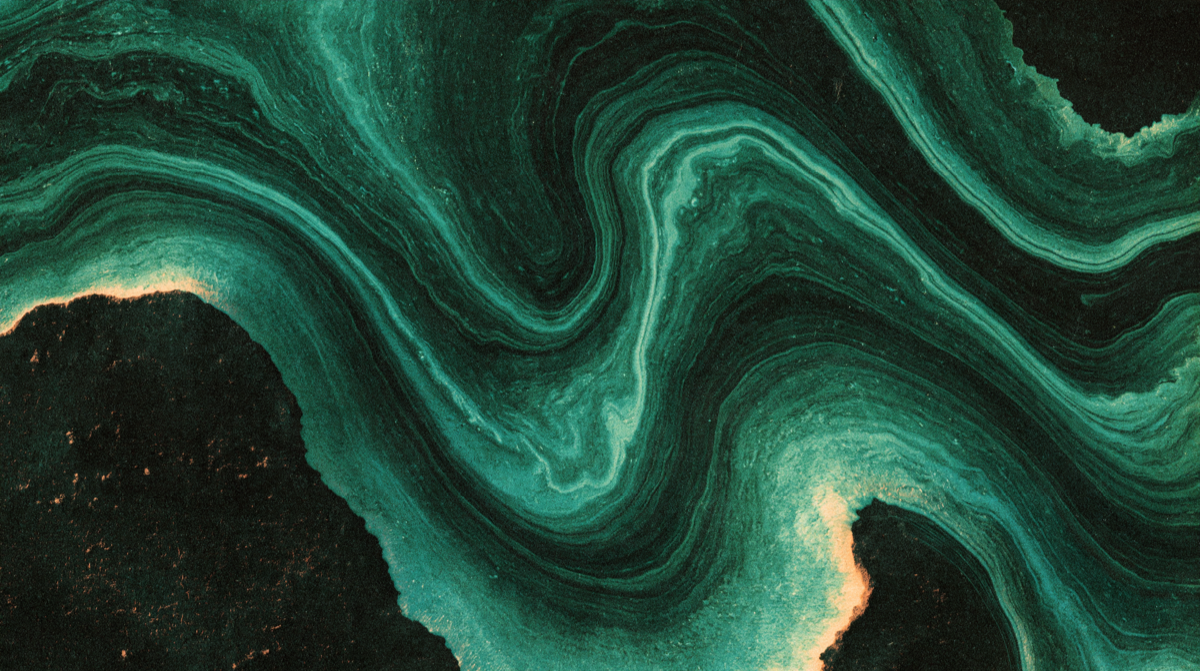
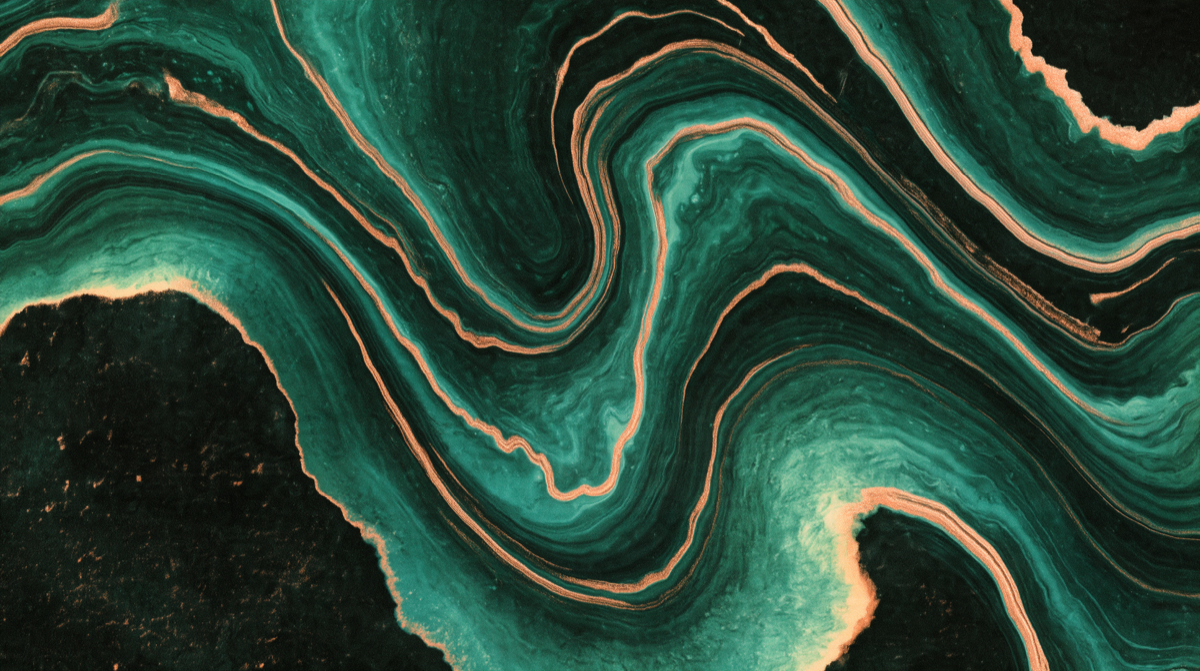
Update both demos for azure, linked rows and larger captions
Swiss Minimal's demo, its switcher, tests and the pigments post use the accent's new name; a saved choice of the old name still shows azure. The row examples on both Components pages have linked titles, so their hover fill is a real one. Verdigris's demo no longer passes an accent to its layout, and its copper-green post has a new picture. Both demos get Features entries.

diff --git a/demo/src/data/features.ts b/demo/src/data/features.ts
@@ -7,6 +7,20 @@ import type { Feature } from '@agentic-design-kits/swiss-minimal/types';
  */
 export const features: Feature[] = [
   {
+    date: '2026-11-15',
+    title: 'The verdigris accent is now azure',
+    body: 'The cool accent has a new name and the same colors. It read as blue more than green, and it shared its name with the Verdigris kit.',
+    details: [
+      'Sites on the kit: change `verdigris` to `azure` wherever the accent is set (`<html data-accent="azure">`, or `accent="azure"` on `BaseLayout`). The old name no longer works.',
+    ],
+  },
+  {
+    date: '2026-11-15',
+    title: 'Larger captions, and rows that fill only when they lead somewhere',
+    body: 'Captions under pictures are now 18px, up from 14px. A list row fills under the pointer only when it holds a link or a button, so a row of plain text no longer looks like something to click.',
+    details: ['The row examples on Components now have linked titles.'],
+  },
+  {
     date: '2026-11-14',
     title: 'Steps for your agent, in the package',
     body: 'The package now carries `USING.md`: the steps for starting a new site with the kit, and for restyling an existing one. Your agent finds it in `node_modules/@agentic-design-kits/swiss-minimal/`, beside the rules, with no trip to GitHub.',

diff --git a/demo/tests/accent-switcher.spec.ts b/demo/tests/accent-switcher.spec.ts
@@ -15,9 +15,9 @@ test('the gear switches the accent and remembers it', async ({ page }) => {
   // Focus goes to the chosen option.
   await expect(page.getByRole('button', { name: 'Vermilion', pressed: true })).toBeFocused();
 
-  await page.getByRole('button', { name: 'Verdigris' }).click();
-  await expect(html).toHaveAttribute('data-accent', 'verdigris');
-  await expect(page.getByRole('button', { name: 'Verdigris', pressed: true })).toBeVisible();
+  await page.getByRole('button', { name: 'Azure' }).click();
+  await expect(html).toHaveAttribute('data-accent', 'azure');
+  await expect(page.getByRole('button', { name: 'Azure', pressed: true })).toBeVisible();
 
   // Escape closes it and gives focus back to the gear.
   await page.keyboard.press('Escape');
@@ -26,7 +26,7 @@ test('the gear switches the accent and remembers it', async ({ page }) => {
 
   // Remembered on another page, applied before the page's own scripts run.
   await page.goto('/work');
-  await expect(html).toHaveAttribute('data-accent', 'verdigris');
+  await expect(html).toHaveAttribute('data-accent', 'azure');
 
   // Back to vermilion, and remembered too.
   await gear.click();

diff --git a/verdigris/demo/src/data/features.ts b/verdigris/demo/src/data/features.ts
@@ -7,6 +7,15 @@ import type { Feature } from '@agentic-design-kits/verdigris/types';
  */
 export const features: Feature[] = [
   {
+    date: '2026-11-15',
+    title: 'Larger captions, and rows that fill only when they lead somewhere',
+    body: 'Captions under pictures are now 22px, up from 18px. A list row fills under the pointer only when it holds a link or a button, so a row of plain text no longer looks like something to click.',
+    details: [
+      'The row examples on Components now have linked titles.',
+      'The post on copper green has a new picture.',
+    ],
+  },
+  {
     date: '2026-11-14',
     title: 'Steps for your agent, in the package',
     body: 'The package now carries `USING.md`: the steps for starting a new site with the kit, and for restyling an existing one. Your agent finds it in `node_modules/@agentic-design-kits/verdigris/`, beside the rules, with no trip to GitHub.',

diff --git a/demo/tests/a11y.spec.ts b/demo/tests/a11y.spec.ts
@@ -6,9 +6,9 @@ import AxeBuilder from '@axe-core/playwright';
 // that broke it.
 
 const THEMES = ['light', 'dark'] as const;
-// The demo is vermilion; verdigris is checked by setting <html data-accent="verdigris">, as a
-// verdigris site would.
-const ACCENTS = ['vermilion', 'verdigris'] as const;
+// The demo is vermilion; azure is checked by setting <html data-accent="azure">, as a
+// azure site would.
+const ACCENTS = ['vermilion', 'azure'] as const;
 const PAGES = ['/', '/work', '/work/field-notes', '/blog', '/blog/page/2', '/blog/one-typeface', '/blog/two-pigments', '/about', '/forms', '/components', '/agents', '/beautiful-code', '/type-and-color'];
 const TABS = ['menu', 'contact', 'features'];
 

diff --git a/demo/tests/blog.spec.ts b/demo/tests/blog.spec.ts
@@ -20,7 +20,7 @@ test('the index opens with the featured post, then lists five of the rest newest
   const titles = page.locator('.post-list-title a');
   await expect(titles).toHaveText([
     'Setting a grid before the words →',
-    'Notes on vermilion and verdigris →',
+    'Notes on vermilion and azure →',
     'Thick rule, thin rule →',
     'Labels in two words or fewer →',
     'Why the bars stay dark →',

diff --git a/demo/src/data/prompts.ts b/demo/src/data/prompts.ts
@@ -5,5 +5,5 @@ export const doc = (file: string) => `${repo}/blob/main/${file}`;
 export const newSitePrompt = `Start a new Astro site with the Swiss Minimal design kit.
 Follow "Starting a new site with the kit" in
 ${doc('USING.md')}
-Pages: Home, Work, About and Contact. Accent: verdigris.
+Pages: Home, Work, About and Contact. Accent: azure.
 Add an AGENTS.md for the site that points at the kit's docs.`;

diff --git a/demo/src/styles/global.css b/demo/src/styles/global.css
@@ -35,4 +35,4 @@
    accents' fixed values from tokens.json rather than the live --accent token. */
 .accent-swatch { width: 0.875rem; height: 0.875rem; flex: none; }
 .accent-swatch--vermilion { background: #e5301b; }
-.accent-swatch--verdigris { background: #0f8f8c; }
+.accent-swatch--azure { background: #0f8f8c; }

diff --git a/demo/src/content/blog/two-pigments.md b/demo/src/content/blog/two-pigments.md
@@ -1,13 +1,13 @@
 ---
-title: Notes on vermilion and verdigris
+title: Notes on vermilion and azure
 date: '2026-09-02'
-summary: The kit offers two accents, both old pigments. Why each one, and why a site only ever uses one of them.
+summary: The kit offers two accents, one warm and one cool. Why each one, and why a site only ever uses one of them.
 tags: [Color]
 cover: ../../assets/landscape.jpg
 coverAlt: Wide crop of an abstract composition, a red circle, black and grey shapes and thin black rules
 ---
 
-Both of the kit's accents are named after pigments people have made for centuries. Vermilion is a red that leans toward orange, the red of Swiss posters and railway signs. Verdigris is the blue-green that copper turns as it weathers on old roofs and statues.
+The kit has two accents, one warm and one cool. Vermilion is named after a pigment people have made for centuries: a red that leans toward orange, the red of Swiss posters and railway signs. Azure is an old word for the blue of a clear sky; the kit's azure leans toward green.
 
 ## One accent, used rarely
 

diff --git a/demo/src/content/blog/images-are-content.md b/demo/src/content/blog/images-are-content.md
@@ -17,4 +17,4 @@ Captions and titles sit below or beside an image, never on it. If text must over
 
 ## Color stays
 
-An image's colors don't count against the one-accent rule. A red photo on a verdigris site is fine; it is content, not interface.
+An image's colors don't count against the one-accent rule. A red photo on a azure site is fine; it is content, not interface.
